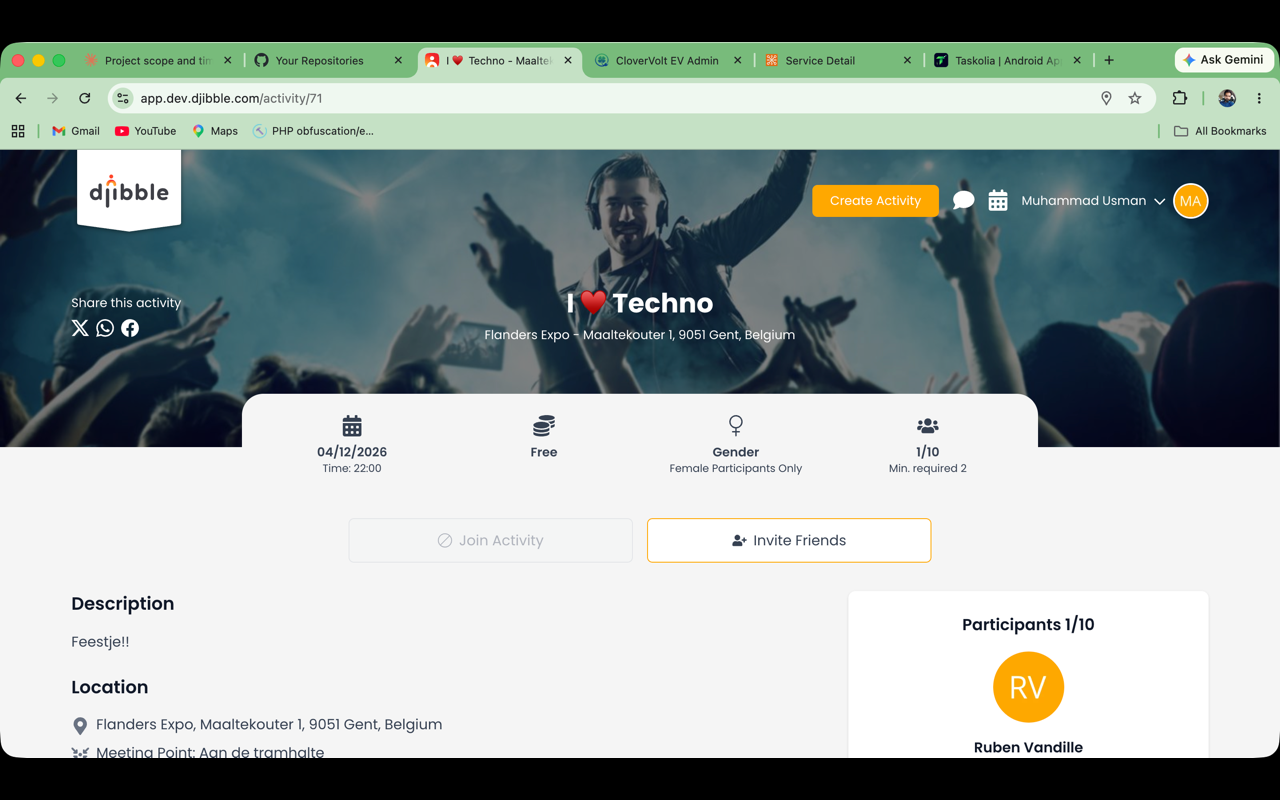
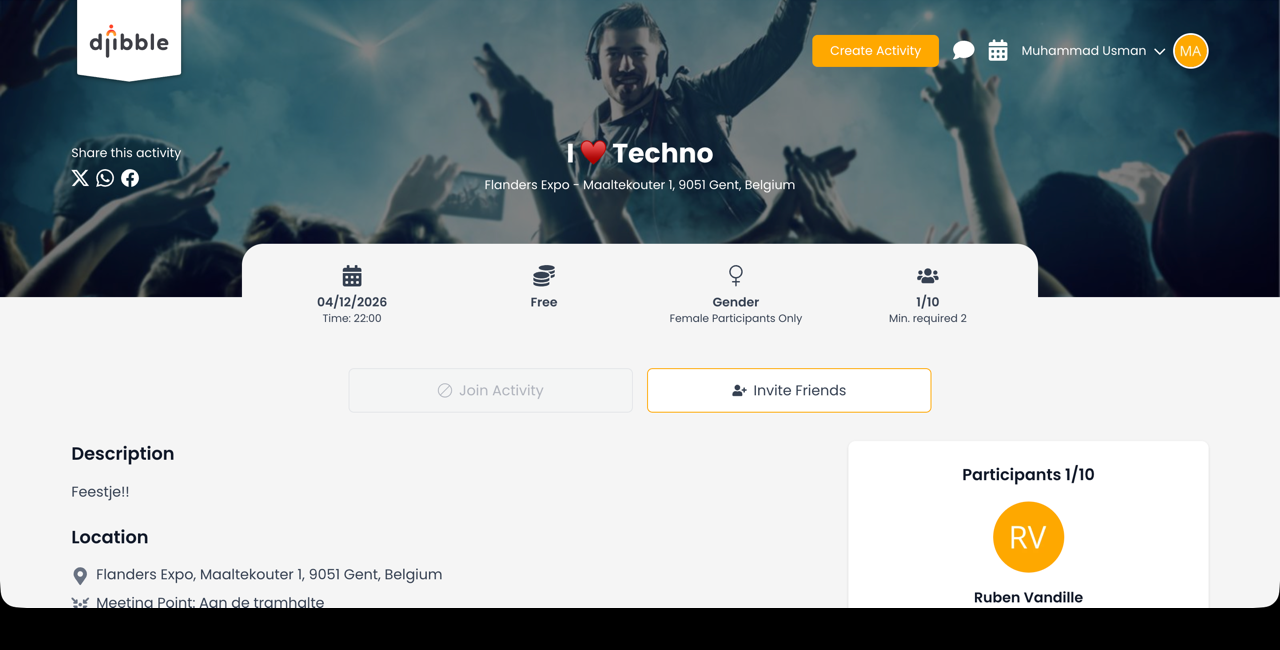
Clean web screenshots and separate web vs app links
Crop browser chrome from desktop captures and split public links into Web and Mobile app sections.

diff --git a/README.md b/README.md
@@ -8,7 +8,10 @@ Local **real-world activity** discovery — find what’s happening nearby, crea
 
 ## Public links
 
-- Web app: [app.djibble.com](https://app.djibble.com)
+### Web
+- App: [app.djibble.com](https://app.djibble.com)
+
+### Mobile app
 - Android: [Google Play — Djibble](https://play.google.com/store/apps/details?id=com.djibble.app)
 - iOS: [App Store — Djibble](https://apps.apple.com/app/djibble/id1450509374)
 
